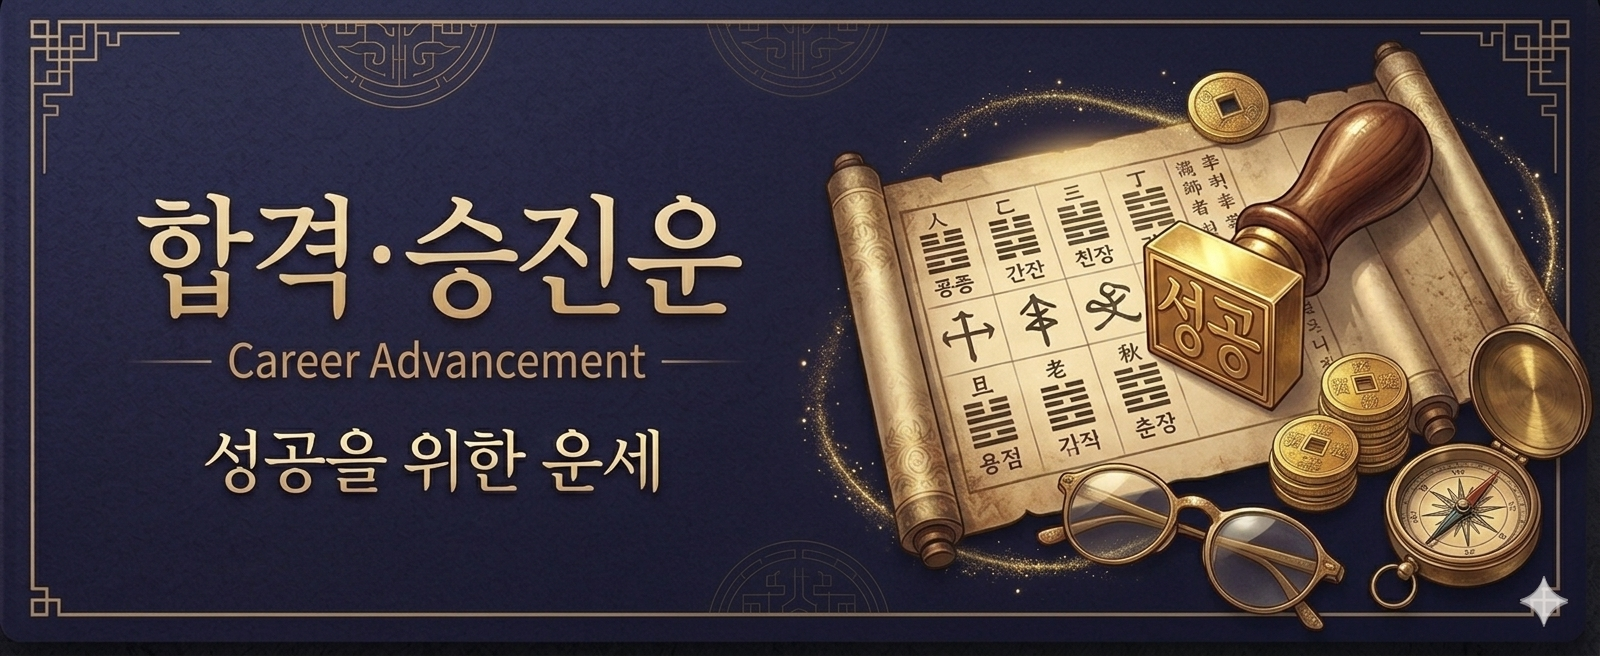
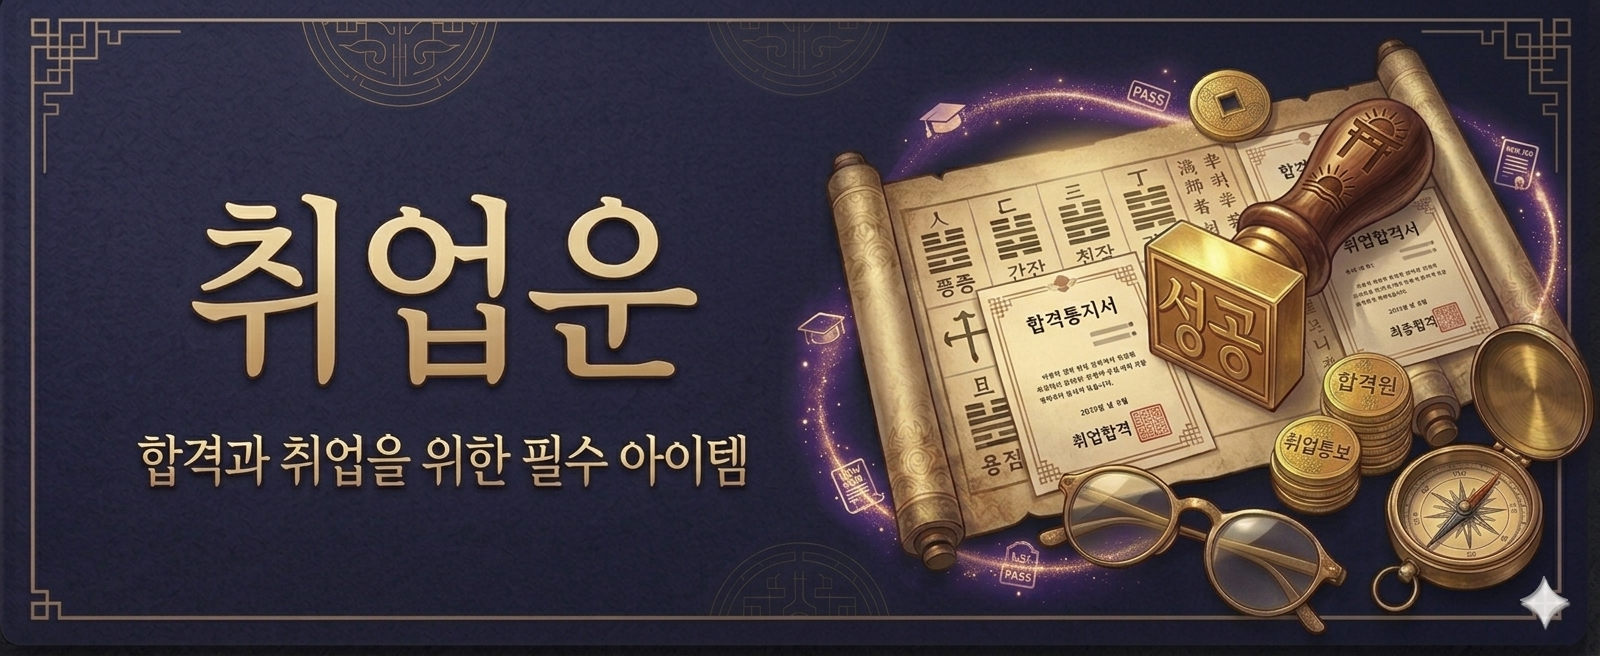
취업운 배너 이미지를 명칭이 통일된 버전으로 교체 (#23)
기존 '합격·승진운' 제목 이미지를 메뉴명과 일치하는 '취업운' 제목 이미지로 변경

diff --git a/src/components/HomePage.tsx b/src/components/HomePage.tsx
@@ -581,7 +581,7 @@ export default function HomePage({ user, nickname, birthProfile, points, onPoint
           onClick={() => onNavigate('job')}
           className="w-full rounded-3xl overflow-hidden active:scale-[0.99] transition-all border border-[rgba(75,191,126,0.25)] hover:border-[rgba(75,191,126,0.5)] hover:shadow-[0_0_24px_rgba(75,191,126,0.3)] active:shadow-[0_0_24px_rgba(75,191,126,0.35)]"
         >
-          <img src="/promo-job.png" alt="합격·승진운 — 성공을 위한 운세, 사주로 보는 취업·이직운" className="w-full h-auto block" />
+          <img src="/promo-job.png" alt="취업운 — 합격과 취업을 위한 필수 아이템" className="w-full h-auto block" />
         </button>
         </div>
 
